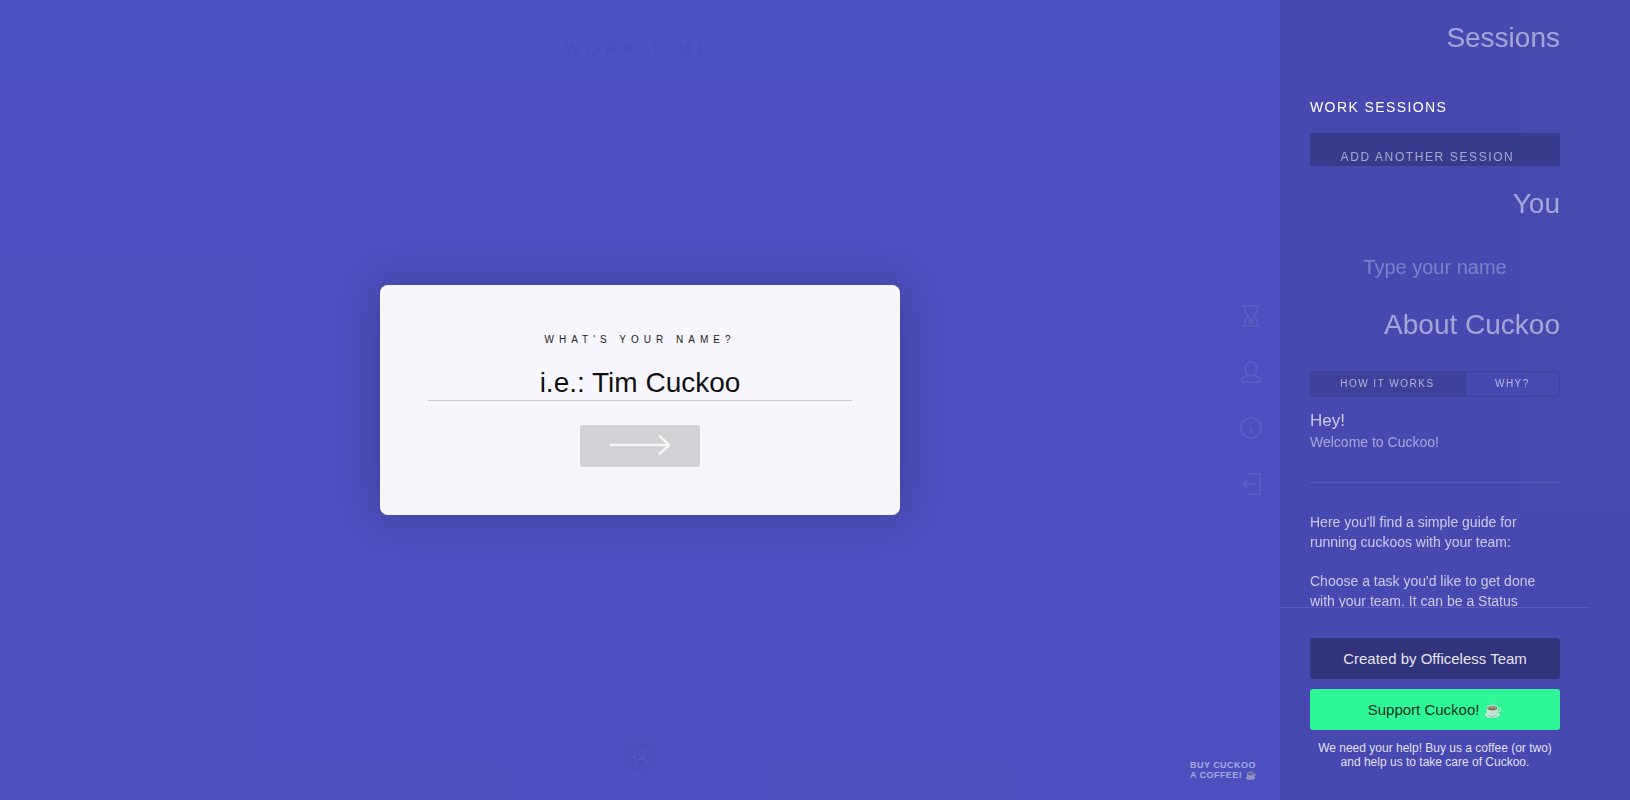
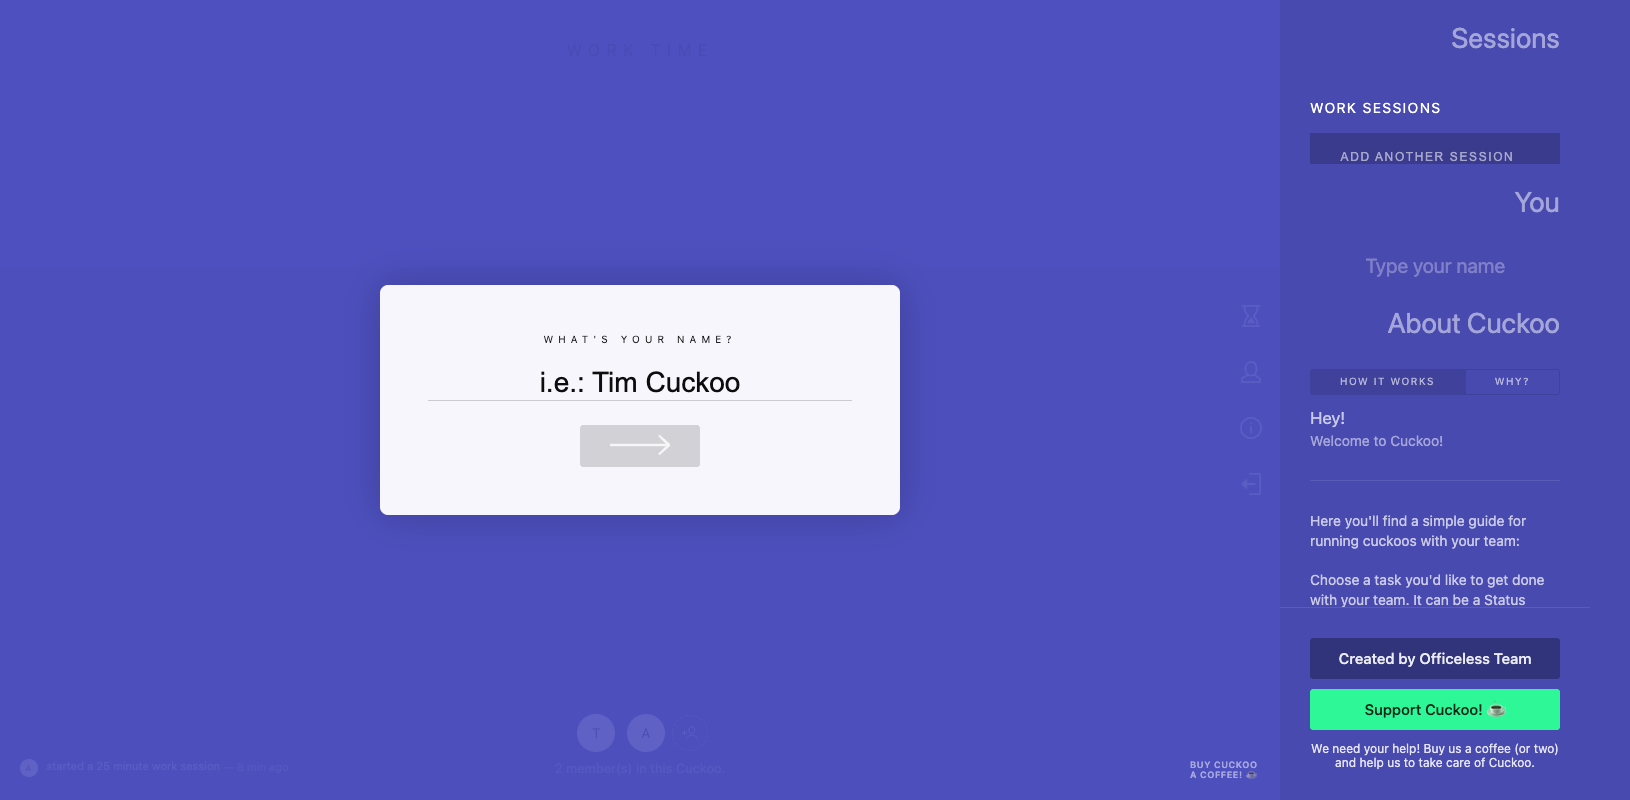
Add real-time presence detection
Discovered that Cuckoo sends user list data after ~1-2 minutes
even without joining the room. Now captures who is currently
in the room (not just activity history).

New data file: data/presence.csv

diff --git a/scraper.js b/scraper.js
@@ -149,10 +149,32 @@ async function scrapeActivityFeed() {
     await page.setViewport({ width: 1280, height: 800 });
 
     await page.goto(CUCKOO_URL, { waitUntil: 'networkidle2', timeout: 60000 });
-    await new Promise(resolve => setTimeout(resolve, 5000));
+
+    // Wait for real-time user data - server sends it after ~2 minutes even without joining
+    console.log('   Waiting for real-time user data (up to 3 min)...');
+    let currentUsers = [];
+    for (let i = 0; i < 18; i++) { // Up to 3 minutes
+      await new Promise(r => setTimeout(r, 10000)); // 10 sec intervals
+
+      currentUsers = await page.evaluate(() => {
+        const avatars = document.querySelectorAll('.js-team__list .avatar__image[data-fullname]');
+        return Array.from(avatars).map(a => a.getAttribute('data-fullname'));
+      });
+
+      const elapsed = (i + 1) * 10;
+      if (currentUsers.length > 0) {
+        console.log(`   Found ${currentUsers.length} users after ${elapsed}s: ${currentUsers.join(', ')}`);
+        break;
+      } else if (elapsed % 30 === 0) {
+        // Log progress every 30 seconds
+        console.log(`   ${elapsed}s: Still waiting for user data...`);
+      }
+    }
+
+    // Store current users for this scrape
+    page.currentUsers = currentUsers;
 
     // DO NOT press any keys or click anything - keyboard shortcuts affect the timer!
-    // The activity feed is visible in the bottom-left even with the modal
 
     // Take screenshot
     await page.screenshot({ path: SCREENSHOT_PATH, fullPage: true });
@@ -181,7 +203,7 @@ async function scrapeActivityFeed() {
       return items;
     });
 
-    return activities;
+    return { activities, currentUsers };
 
   } finally {
     await browser.close();
@@ -203,10 +225,19 @@ async function scrape() {
   const snapshotLine = `${scrapeTime.toISOString()},${timerRunning},${timerValue},${sessionType}\n`;
   fs.appendFileSync(SNAPSHOTS_PATH, snapshotLine);
 
-  // Scrape activity feed
-  console.log('\n2. Scraping activity feed...');
-  const activities = await scrapeActivityFeed();
+  // Scrape activity feed and current users
+  console.log('\n2. Scraping activity feed and presence...');
+  const { activities, currentUsers } = await scrapeActivityFeed();
   console.log(`   Found ${activities.length} activities`);
+  console.log(`   Current users in room: ${currentUsers.length > 0 ? currentUsers.join(', ') : 'none detected'}`);
+
+  // Save current presence snapshot
+  const presenceLine = `${scrapeTime.toISOString()},${currentUsers.length},"${currentUsers.join(';')}"\n`;
+  const PRESENCE_PATH = path.join(DATA_DIR, 'presence.csv');
+  if (!fs.existsSync(PRESENCE_PATH)) {
+    fs.writeFileSync(PRESENCE_PATH, 'timestamp,user_count,users\n');
+  }
+  fs.appendFileSync(PRESENCE_PATH, presenceLine);
 
   // Load existing activities for deduplication
   const existingActivities = loadExistingActivities();
